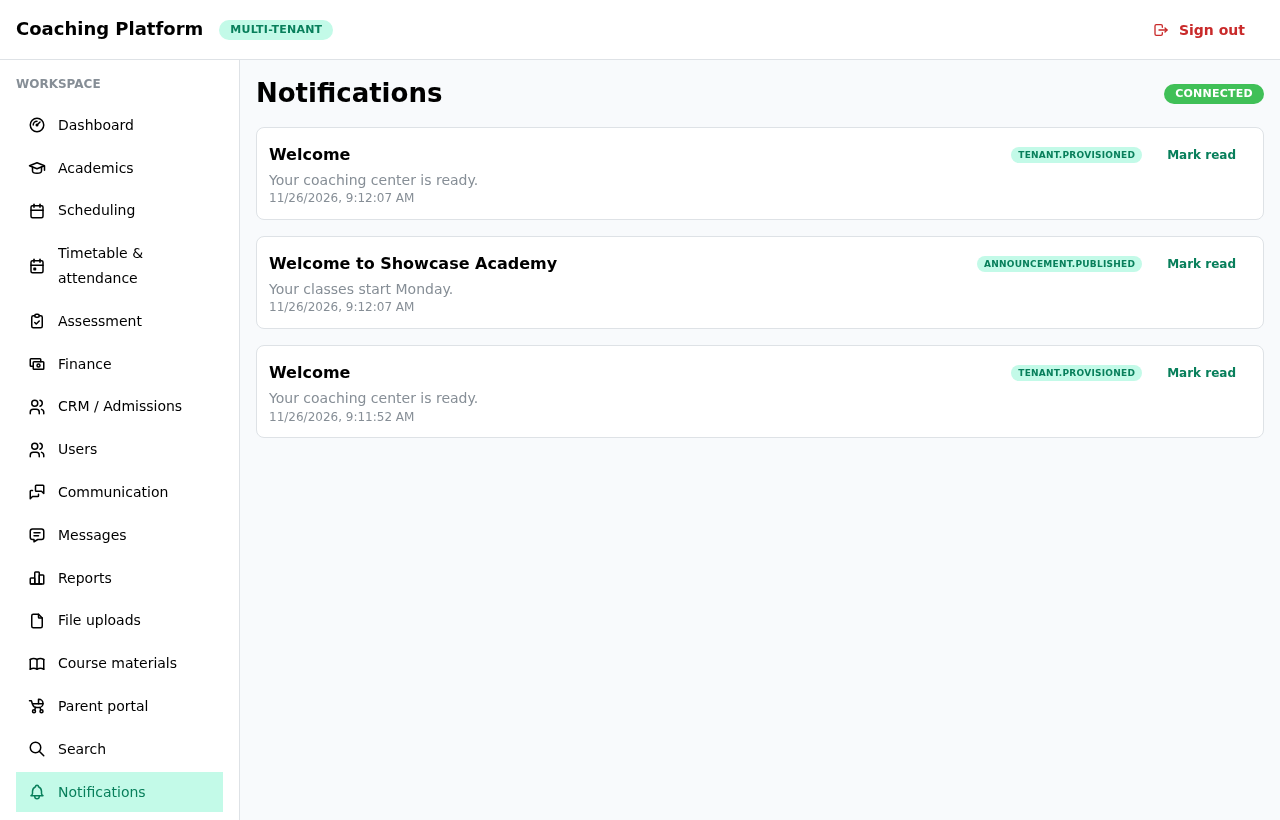
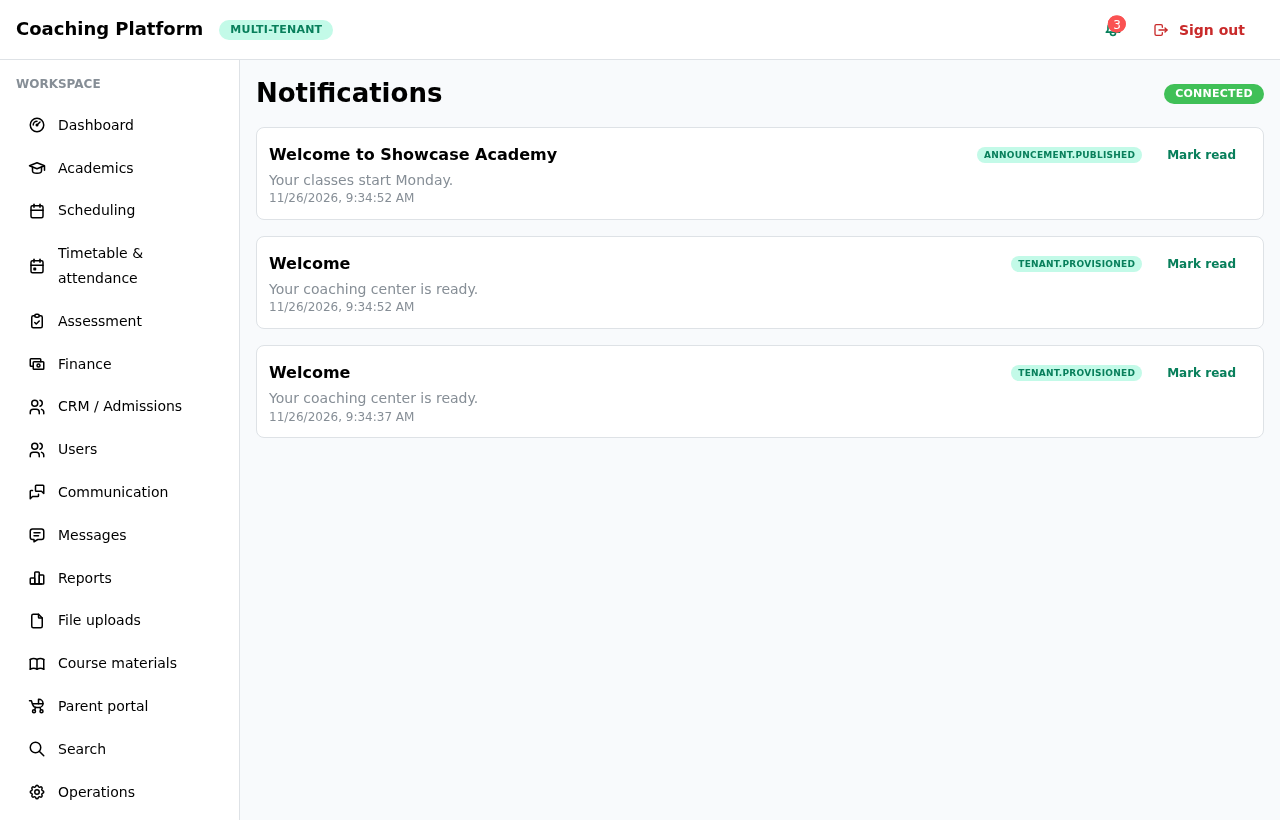
feat(web): add header notification bell
Replaces the sidebar notifications link with a bell in the header. Shows an unread count badge, a live SignalR dropdown with quick mark-read, a connection badge and a View all link to the full page. A shared context keeps the bell and page in sync over one connection.

diff --git a/web/src/components/NotificationBell.tsx b/web/src/components/NotificationBell.tsx
@@ -1,0 +1,68 @@
+import { ActionIcon, Indicator, Popover, Stack, Group, Text, Badge, Button, ScrollArea, Divider } from '@mantine/core';
+import { IconBell } from '@tabler/icons-react';
+import { Link } from 'react-router-dom';
+import { useNotifications } from './NotificationContext';
+
+/** Header bell: unread badge, live dropdown with quick mark-read, and a link to the full page. */
+export function NotificationBell() {
+  const { items, status, unreadCount, markRead, refresh } = useNotifications();
+
+  return (
+    <Popover width={380} position="bottom-end" withArrow shadow="md" withinPortal>
+      <Popover.Target>
+        <ActionIcon
+          variant="subtle"
+          size="lg"
+          aria-label="Notifications"
+          title="Notifications"
+          onClick={() => void refresh()}
+        >
+          <Indicator
+            label={unreadCount > 9 ? '9+' : unreadCount}
+            disabled={unreadCount === 0}
+            size={17}
+            color="red"
+            offset={6}
+          >
+            <IconBell size={20} />
+          </Indicator>
+        </ActionIcon>
+      </Popover.Target>
+      <Popover.Dropdown p={0}>
+        <Group justify="space-between" px="md" py="sm">
+          <Text fw={700}>Notifications</Text>
+          <Badge color={status === 'connected' ? 'green' : 'gray'} size="sm" variant="light">
+            {status}
+          </Badge>
+        </Group>
+        <Divider />
+        <ScrollArea h={330}>
+          <Stack gap={0}>
+            {items.length === 0 && (
+              <Text c="dimmed" size="sm" ta="center" py="xl">No notifications yet.</Text>
+            )}
+            {items.slice(0, 25).map(n => (
+              <div key={n.id} style={{ padding: '10px 16px', borderBottom: '1px solid #eceef0', background: n.isRead ? undefined : '#f0fdfa' }}>
+                <Group justify="space-between" wrap="nowrap" gap="xs">
+                  <Text size="sm" fw={n.isRead ? 500 : 700} style={{ flex: 1 }} lineClamp={1}>{n.title}</Text>
+                  {!n.isRead && (
+                    <Button size="xs" variant="subtle" onClick={() => void markRead(n.id)}>Mark read</Button>
+                  )}
+                </Group>
+                <Text size="xs" c="dimmed" lineClamp={2} mt={2}>{n.body}</Text>
+                <Text size="xs" c="dimmed" mt={2}>
+                  {n.sentAt ? new Date(n.sentAt).toLocaleString() : ''}
+                </Text>
+              </div>
+            ))}
+          </Stack>
+        </ScrollArea>
+        <Divider />
+        <Group justify="space-between" px="md" py="xs">
+          <Text size="xs" c="dimmed">{unreadCount} unread</Text>
+          <Button component={Link} to="/notifications" size="xs" variant="subtle">View all</Button>
+        </Group>
+      </Popover.Dropdown>
+    </Popover>
+  );
+}

diff --git a/web/src/components/Notifications.tsx b/web/src/components/Notifications.tsx
@@ -1,26 +1,15 @@
-import { useEffect, useState } from 'react';
 import { Stack, Title, Card, Group, Badge, Text, Button, Alert } from '@mantine/core';
-import { HubConnectionBuilder } from '@microsoft/signalr';
-import { api, getToken, asArray } from '../api';
+import { useNotifications } from './NotificationContext';
 
 export function Notifications() {
-  const [items, setItems] = useState<any[]>([]);
-  const [status, setStatus] = useState('connecting…');
-  const [err, setErr] = useState('');
-  const load = () => api('/api/communication/notifications').then(r=>setItems(asArray(r))).catch(e=>setErr(e.message));
-  useEffect(()=>{
-    void load();
-    const c = new HubConnectionBuilder().withUrl('/hubs/notifications',{accessTokenFactory:()=>getToken()}).withAutomaticReconnect().build();
-    c.on('notification', n => setItems(prev=>[n,...prev]));
-    c.start().then(()=>setStatus('connected')).catch(()=>setStatus('offline'));
-    return ()=>{ void c.stop(); };
-  },[]);
+  const { items, status, error, markRead } = useNotifications();
+
   return <Stack gap="md">
-    <Group justify="space-between"><Title order={2}>Notifications</Title><Badge color={status==='connected'?'green':'gray'}>{status}</Badge></Group>
-    {err && <Alert color="red">{err}</Alert>}
-    {items.length===0 && <Text c="dimmed">No notifications yet.</Text>}
-    {items.map(n=><Card key={n.id} withBorder padding="sm">
-      <Group justify="space-between"><Text fw={600}>{n.title}</Text><Group gap="xs"><Badge size="xs" variant="light">{n.type}</Badge>{!n.isRead && <Button size="xs" variant="subtle" onClick={()=>api(`/api/communication/notifications/${n.id}/read`,{method:'POST'}).then(load)}>Mark read</Button>}</Group></Group>
+    <Group justify="space-between"><Title order={2}>Notifications</Title><Badge color={status === 'connected' ? 'green' : 'gray'}>{status}</Badge></Group>
+    {error && <Alert color="red">{error}</Alert>}
+    {items.length === 0 && <Text c="dimmed">No notifications yet.</Text>}
+    {items.map(n => <Card key={n.id} withBorder padding="sm">
+      <Group justify="space-between"><Text fw={600}>{n.title}</Text><Group gap="xs"><Badge size="xs" variant="light">{n.type}</Badge>{!n.isRead && <Button size="xs" variant="subtle" onClick={() => void markRead(n.id)}>Mark read</Button>}</Group></Group>
       <Text size="sm" c="dimmed">{n.body}</Text><Text size="xs" c="dimmed">{n.sentAt ? new Date(n.sentAt).toLocaleString() : ''}</Text>
     </Card>)}
   </Stack>;

diff --git a/web/src/components/NotificationContext.tsx b/web/src/components/NotificationContext.tsx
@@ -1,0 +1,62 @@
+import { createContext, useCallback, useContext, useEffect, useState } from 'react';
+import { HubConnectionBuilder } from '@microsoft/signalr';
+import { api, asArray, getToken } from '../api';
+
+interface NotificationState {
+  items: any[];
+  status: string;
+  error: string;
+  unreadCount: number;
+  refresh: () => Promise<void>;
+  markRead: (id: string) => Promise<void>;
+}
+
+const NotificationContext = createContext<NotificationState>({
+  items: [], status: 'offline', error: '', unreadCount: 0,
+  refresh: async () => {}, markRead: async () => {},
+});
+
+export const useNotifications = () => useContext(NotificationContext);
+
+/** Owns the single SignalR connection and notification state shared by the header bell and the full page. */
+export function NotificationsProvider({ children }: { children: React.ReactNode }) {
+  const [items, setItems] = useState<any[]>([]);
+  const [status, setStatus] = useState('connecting…');
+  const [error, setError] = useState('');
+
+  const refresh = useCallback(async () => {
+    try {
+      const r = await api('/api/communication/notifications');
+      setItems(asArray(r));
+      setError('');
+    } catch (e: any) { setError(e.message); }
+  }, []);
+
+  useEffect(() => {
+    void refresh();
+    const connection = new HubConnectionBuilder()
+      .withUrl('/hubs/notifications', { accessTokenFactory: () => getToken() })
+      .withAutomaticReconnect()
+      .build();
+    connection.on('notification', (n: any) => setItems(prev => [n, ...prev]));
+    connection.start()
+      .then(() => setStatus('connected'))
+      .catch(() => setStatus('offline'));
+    return () => { void connection.stop(); };
+  }, [refresh]);
+
+  const markRead = useCallback(async (id: string) => {
+    try {
+      await api(`/api/communication/notifications/${id}/read`, { method: 'POST' });
+      setItems(prev => prev.map(n => n.id === id ? { ...n, isRead: true } : n));
+    } catch (e: any) { setError(e.message); }
+  }, []);
+
+  const unreadCount = items.filter(n => !n.isRead).length;
+
+  return (
+    <NotificationContext.Provider value={{ items, status, error, unreadCount, refresh, markRead }}>
+      {children}
+    </NotificationContext.Provider>
+  );
+}

diff --git a/web/src/components/Layout.tsx b/web/src/components/Layout.tsx
@@ -1,8 +1,9 @@
 import { useState } from 'react';
 import { AppShell, NavLink, Group, Title, Badge, Button, Text } from '@mantine/core';
-import { IconGauge, IconSchool, IconCalendar, IconCalendarEvent, IconClipboardCheck, IconCash, IconUsers, IconMessages, IconMessage, IconChartBar, IconFile, IconBook, IconBabyCarriage, IconSearch, IconBell, IconSettings, IconLogout } from '@tabler/icons-react';
+import { IconGauge, IconSchool, IconCalendar, IconCalendarEvent, IconClipboardCheck, IconCash, IconUsers, IconMessages, IconMessage, IconChartBar, IconFile, IconBook, IconBabyCarriage, IconSearch, IconSettings, IconLogout } from '@tabler/icons-react';
 import { Link, useLocation, useNavigate } from 'react-router-dom';
 import { clearToken } from '../api';
+import { NotificationBell } from './NotificationBell';
 
 export const nav = [
   { to:'/', label:'Dashboard', icon:IconGauge },
@@ -20,7 +21,6 @@ export const nav = [
   { to:'/materials', label:'Course materials', icon:IconBook },
   { to:'/parent', label:'Parent portal', icon:IconBabyCarriage },
   { to:'/search', label:'Search', icon:IconSearch },
-  { to:'/notifications', label:'Notifications', icon:IconBell },
   { to:'/operations', label:'Operations', icon:IconSettings },
 ];
 
@@ -33,7 +33,10 @@ export function Layout({ children }: { children: React.ReactNode }) {
       <AppShell.Header>
         <Group h="100%" px="md" justify="space-between">
           <Group><Title order={4}>Coaching Platform</Title><Badge color="teal" variant="light">Multi-tenant</Badge></Group>
-          <Button variant="subtle" color="red" leftSection={<IconLogout size={16}/>} onClick={()=>{clearToken(); navigate('/login');}}>Sign out</Button>
+          <Group gap="xs">
+            <NotificationBell />
+            <Button variant="subtle" color="red" leftSection={<IconLogout size={16}/>} onClick={()=>{clearToken(); navigate('/login');}}>Sign out</Button>
+          </Group>
         </Group>
       </AppShell.Header>
       <AppShell.Navbar p="md">

diff --git a/web/src/App.tsx b/web/src/App.tsx
@@ -12,6 +12,7 @@ import { Reports } from './components/Reports';
 import { Parent } from './components/Parent';
 import { Search } from './components/Search';
 import { Notifications as NotificationsPage } from './components/Notifications';
+import { NotificationsProvider } from './components/NotificationContext';
 import { Operations } from './components/Operations';
 import { Timetable } from './components/Timetable';
 import { Messaging } from './components/Messaging';
@@ -23,7 +24,7 @@ const R = ({ k }: { k:string }) => { const r=resourceByKey(k); return r ? <Resou
 export default function App() {
   const [token, setToken] = useState(getToken());
   if (!token) return <MantineProvider theme={theme}><Notifications/><Login onSuccess={()=>setToken(getToken())}/></MantineProvider>;
-  return <MantineProvider theme={theme}><Notifications/><BrowserRouter><Layout><Routes>
+  return <MantineProvider theme={theme}><Notifications/><BrowserRouter><NotificationsProvider><Layout><Routes>
     <Route path="/" element={<Dashboard/>}/>
     <Route path="/academics" element={<R k="courses"/>}/>
     <Route path="/academics/courses" element={<R k="courses"/>}/>
@@ -58,5 +59,5 @@ export default function App() {
     <Route path="/notifications" element={<NotificationsPage/>}/>
     <Route path="/operations" element={<Operations/>}/>
     <Route path="*" element={<Navigate to="/"/>}/>
-  </Routes></Layout></BrowserRouter></MantineProvider>;
+  </Routes></Layout></NotificationsProvider></BrowserRouter></MantineProvider>;
 }
